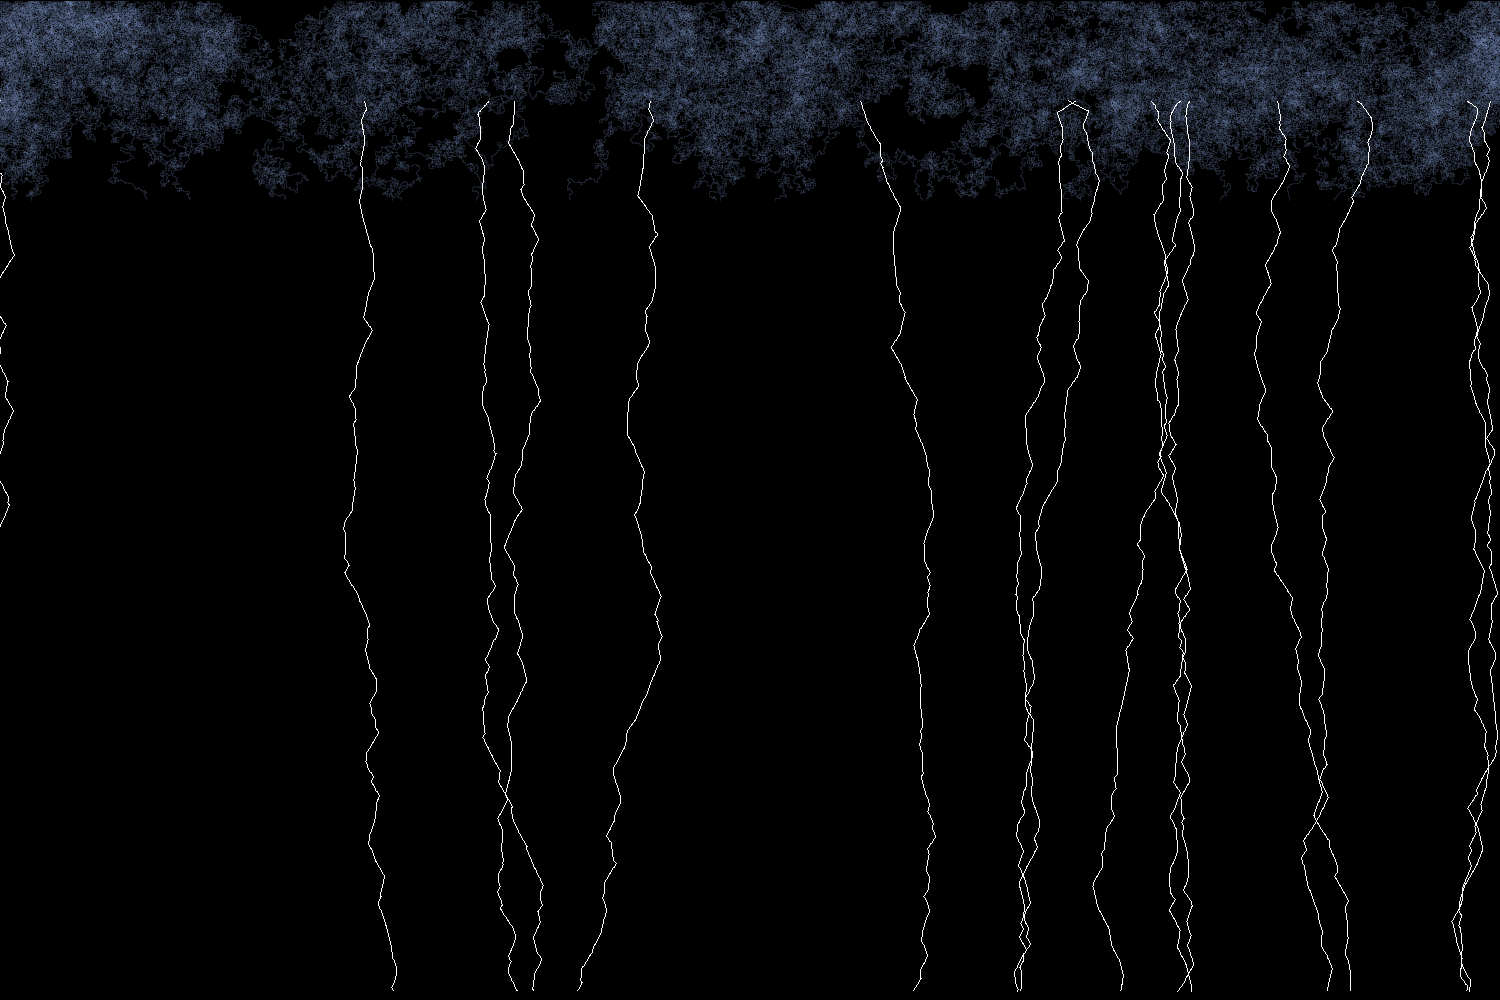
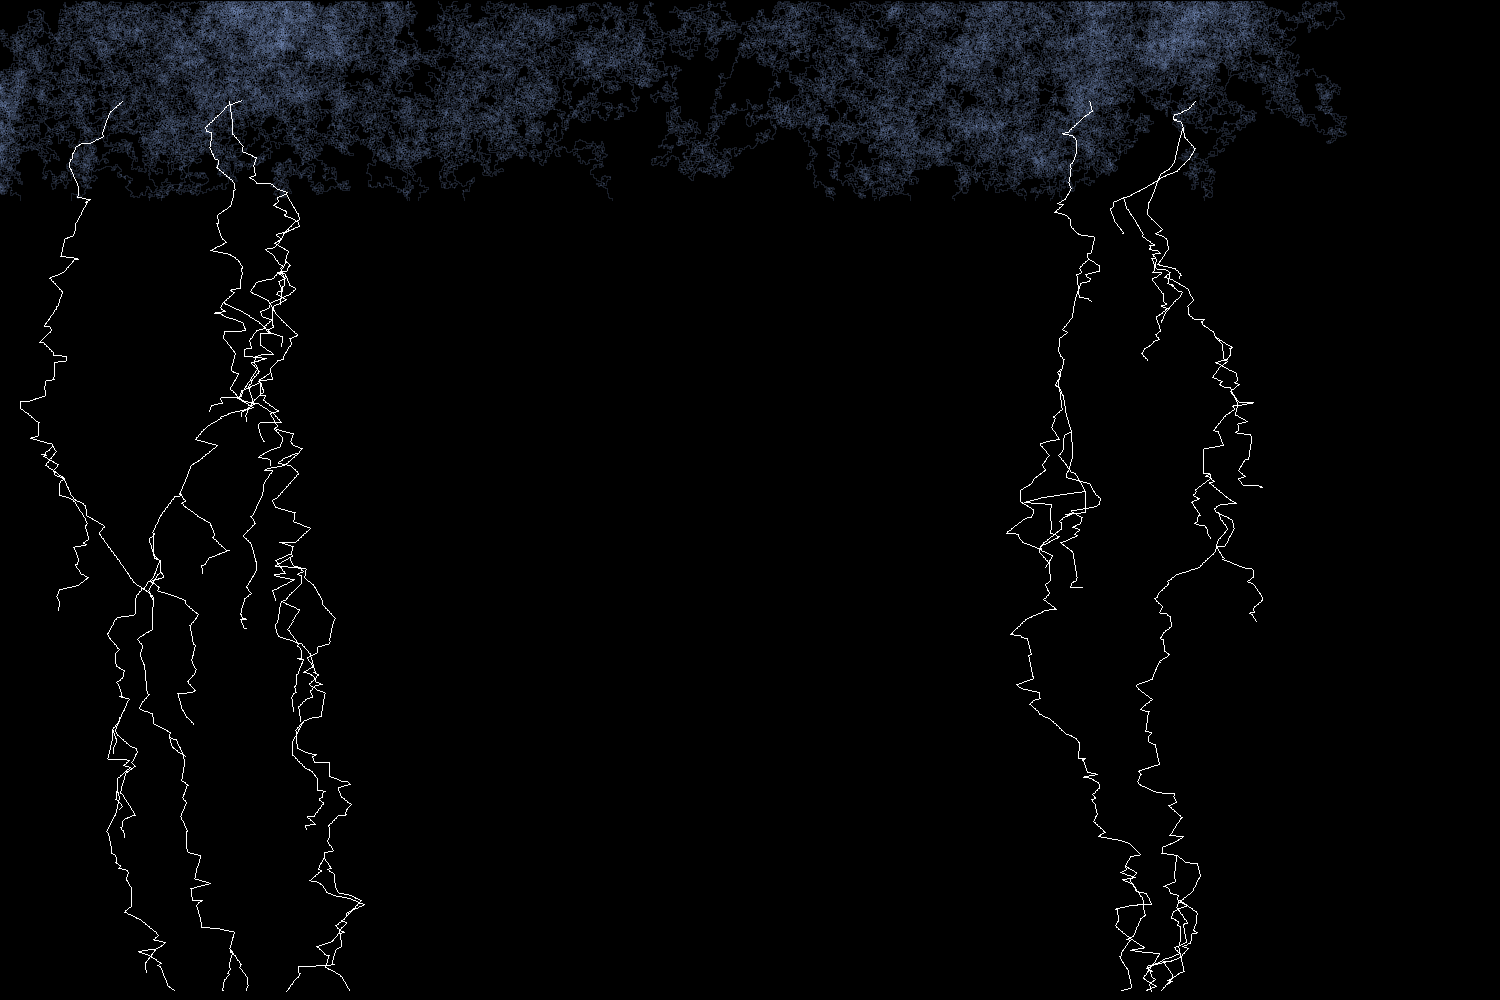
Clouds + Cartoonish lightning Clouds - using randomness and pathfinding
Lightning - Random angle and then length
- Lightning branching
- Added lighting using inverse 1/r^2

Added Progress Bars, moved code to Jupyter notebook for use on google colab

diff --git a/lightning_generator.py b/lightning_generator.py
@@ -1,9 +1,11 @@
-import math
-
+import sys
 import numpy as np
-from PIL import Image, ImageDraw
+from PIL import Image
 from random import randint, random, uniform
 import math
+from tqdm import tqdm
+import multiprocessing
+
 # Y by X
 SIZE = (1000, 1500)
 
@@ -14,6 +16,8 @@ for i in range(SIZE[0]):
 
 # canvas RGB
 sky = np.zeros((SIZE[0], SIZE[1], 3))
+
+branches = []
 
 
 def rescale(arr):
@@ -49,7 +53,7 @@ def create_cloud(row, col, floor, canvas=sky, data=moist):
     return canvas
 
 
-def create_lightning(row, col, color=(255, 255, 255), canvas=sky):
+def create_lightning(row, col, color=(255, 255, 255), canvas=sky, floor=SIZE[0]):
     counter = 0
     length = randint(5, 25)
     theta = uniform(0.1*math.pi, 0.9*math.pi)
@@ -57,34 +61,59 @@ def create_lightning(row, col, color=(255, 255, 255), canvas=sky):
     while row < SIZE[0] - 10:
         counter += 1
         if counter%length == 0:
-            theta = uniform(0.3*math.pi, 0.7*math.pi)
+            theta = uniform(0*math.pi, 1*math.pi)
             length = randint(5, 25)
+            if random() <= 0.05:
+                branches.append((row, col))
+
         row, col = choose_point(col, row, theta)
         rrow, rcol = round(row), round(col)
 
-        if 0 <= rrow < SIZE[0] and 0 <= rcol < SIZE[1]:
+        if 0 <= rrow < floor and 0 <= rcol < SIZE[1]:
             canvas[rrow, rcol, 0] = color[0]
             canvas[rrow, rcol, 1] = color[1]
             canvas[rrow, rcol, 2] = color[2]
-        print(row, col)
+        # print(row, col)
     return canvas
 
 
-# set ground
-ground = 800
-moist[SIZE[0]-ground, :] = SIZE[0]
-
-for _ in range(20):
-    start_X = randint(0, SIZE[1])
-    sky = create_cloud(0, start_X, ground)
-
-for _ in range(15):
-    start_X = randint(0, SIZE[1])
-    sky = create_lightning(100, start_X)
+def fade_effect(matrix_info):
+    value, pos_y, pos_x = matrix_info
+    fade = np.fromfunction(lambda i, j, z: 1/(((i-pos_y+0.001)**2)+((j-pos_x+0.001)**2)), (SIZE[0], SIZE[1], 3), dtype='uint8')
+    return value*fade
 
 
-# sky = 255*rescale(sky)
-# sky = np.flipud(sky)
-img = Image.fromarray(sky.astype('uint8'), 'RGB')
-img.save('Light.png')
-# %%
+if __name__ == '__main__':
+    lightning_F = np.zeros((SIZE[0], SIZE[1], 3))
+    lightning = np.zeros((SIZE[0], SIZE[1], 3))
+    # set ground
+    ground = 800
+    moist[SIZE[0] - ground, :] = SIZE[0]
+    print("reached")
+    for _ in tqdm(range(20), desc="Creating Clouds"):
+        start_X = randint(0, SIZE[1])
+        sky = create_cloud(0, start_X, ground)
+
+    for _ in tqdm(range(5), desc="Creating Lightning Main"):
+        start_X = randint(0, SIZE[1])
+        lightning = create_lightning(100, start_X)
+
+    for i in tqdm(range(len(branches)), desc="Creating Lightning Branches"):
+        row, col = branches[i]
+        lightning = create_lightning(row, col, floor=row+randint(10, 200))
+
+    pbar = tqdm(total=np.count_nonzero(lightning >= 1)/3, desc="Getting Points for Processing")
+    to_process = []
+    for (row, col, z), val in np.ndenumerate(lightning):
+        if val != 0 and z == 0:
+            to_process.append((val, row, col))
+            pbar.update(1)
+    pbar.close()
+    with multiprocessing.Pool(int(sys.argv[1])) as p:
+        lightning_F = sum(tqdm(p.imap(fade_effect, to_process), total=len(to_process), desc="Processing Points"))
+
+    final = sky + lightning_F
+
+    final = 255*rescale(final)
+    img = Image.fromarray(final.astype('uint8'), 'RGB')
+    img.save('Light.png')
